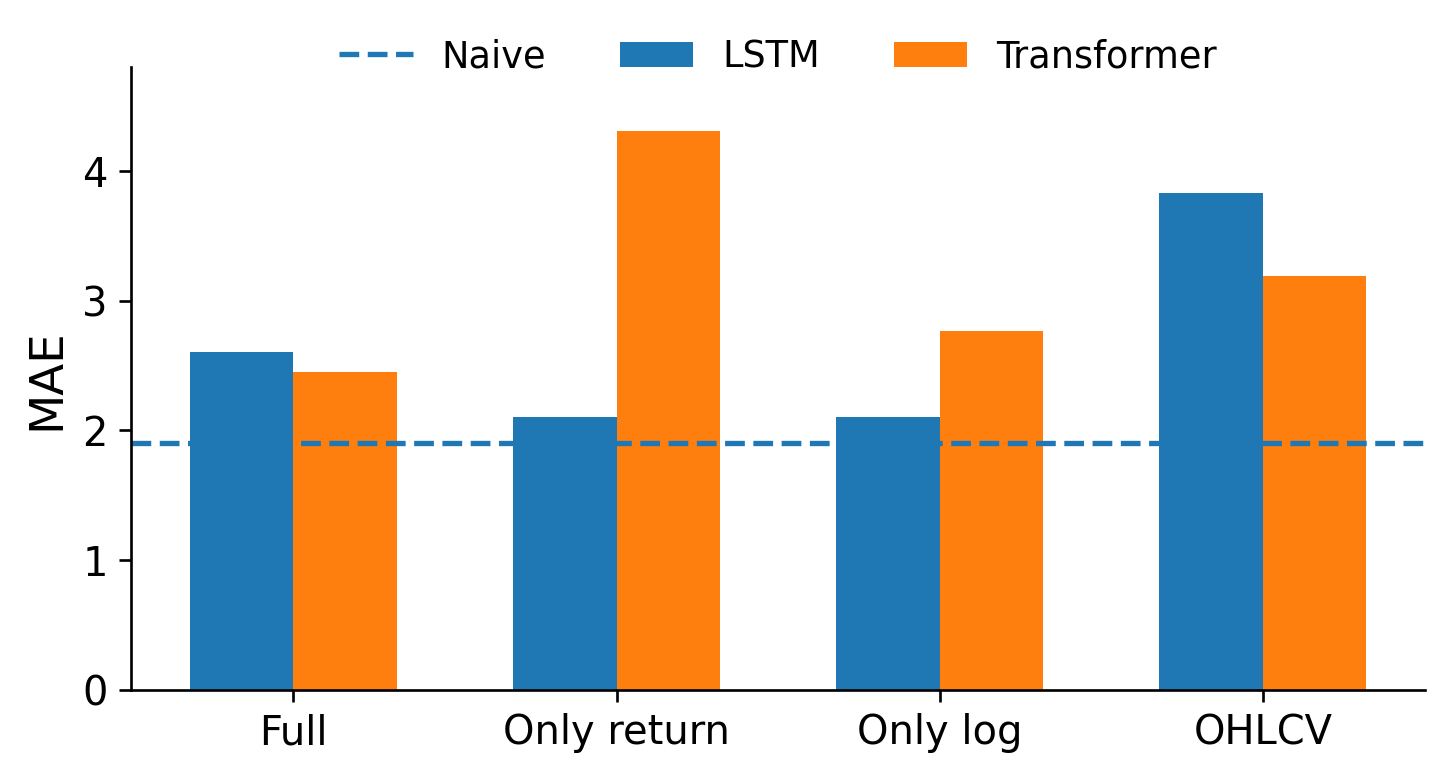
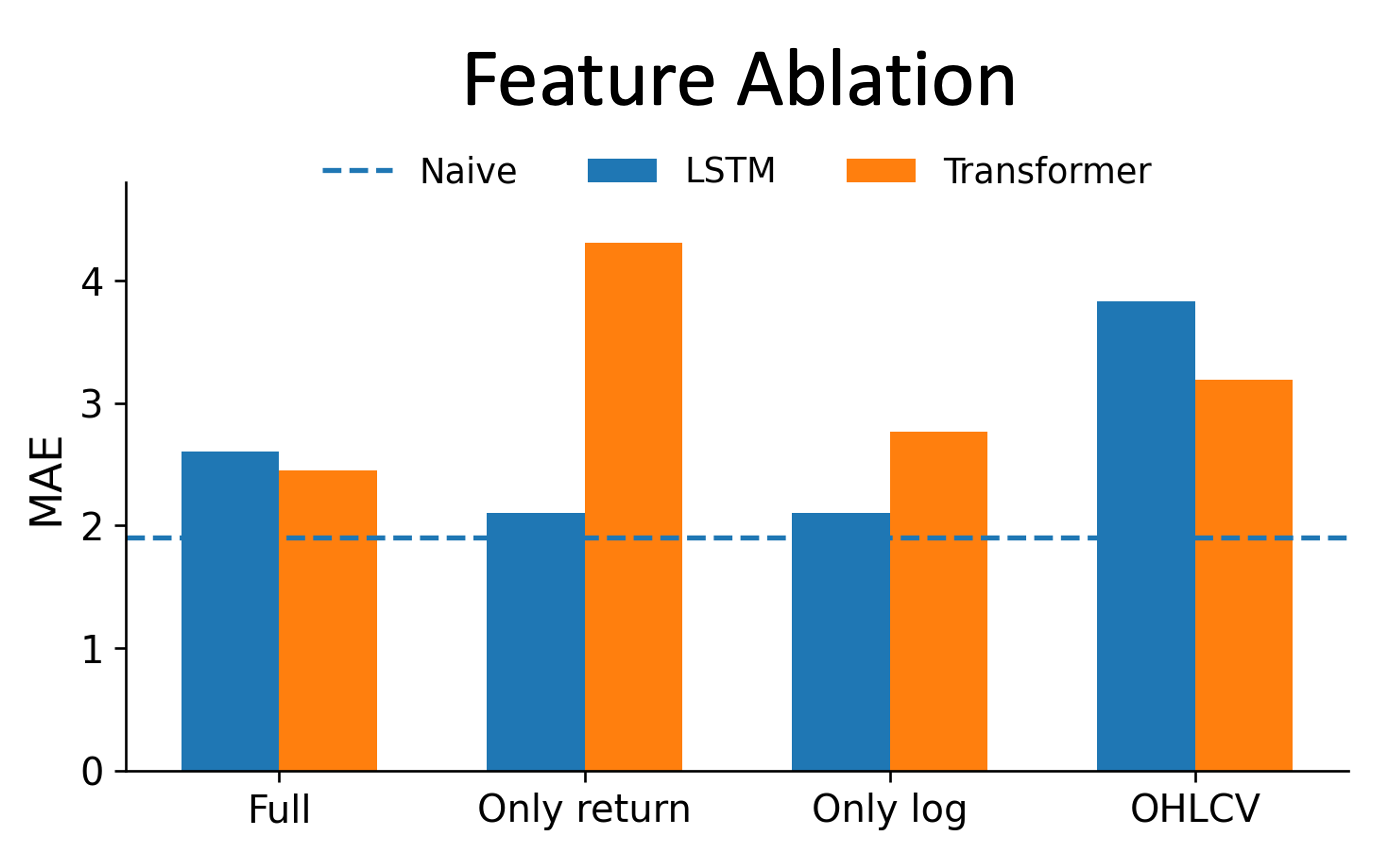
update readme

diff --git a/README.md b/README.md
@@ -3,7 +3,7 @@
 ### Overview
 This project implements a time-series forecasting framework for stock price prediction using LSTM and Transformer, and benchmarks against traditional statistical baselines (Naive baseline, Moving average baseline, and Linear regression baseline). 
 
-The current implementation (v1.0) serves as a foundational time-series ML engineering practices covering data preprocessing, dataset construction, model training, and evaluation. Some necessary follow-up steps still need to be added (See [Roadmap & Future work](#roadmap--future-work)). 
+The current implementation serves as a foundational time-series ML engineering practices covering data preprocessing, dataset construction, model training, and evaluation. Error analysis and abalation experiments are studied as well to understand about the model.
 
 <!-- This project is currently a forecasting benchmark, not a production trading system. Forecasting accuracy does not directly imply trading profitability.  -->
 
@@ -83,18 +83,50 @@ Final evaluation is reported in the original price space.
 **Note**: The strong performance of naive baseline is due to the high short-term continuity and strong autocorrelation in absolute stock prices ($Y_t\approx Y_{t-1}$). Replacing the prediction target to returns will reduce this persistence effect and provide a more informative setting. 
 
 
-Prediction curve:
-![Prediction Plot](outputs/20260315_180055/figures/AAPL_predictions.png)
+Prediction curve, where the dashed lines correspond to top-5 error timepoints of LSTM predictions:
+![Prediction Plot](outputs/20260315_180055/figures/AAPL_predictions_with_LSTM_topk.png)
 
 Training and validation loss:
 ![Training and validation loss](outputs/20260315_180055/figures/AAPL_lstm_transformer_loss.png)
 
 
-Output results are saved under:
+---
 
-```bash
-outputs/<timestamp>/
-```
+### Error analysis & Ablation study
+Error analysis of (1) residual histogram and (2) top-K error interval have been down. The high prediction errors are related to the high-volatility. 
+<!-- 1. Residual histogram
+2. top-K error interval
+3. High/low volatility  -->
+<table>
+  <tr>
+    <td><img src="evaluation/feature_ablation_compact.png" width="100%"></td>
+    <td><img src="evaluation/seq_length_ablation_compact.png" width="100%"></td>
+  </tr>
+</table>
+
+- Return-style features are more informative than raw OHLCV alone.
+LSTM performs best with cleaner inputs (one of return or log return);
+- Transformer is more sensitive to input feature choice. 
+- Longer context is not always better: LSTM prefers 20 days, Transformer around 60.
+- Even the best learned model does not beat the naïve last-close baseline. 
+
+
+---
+
+### Roadmap & Future work
+- For the target of `Return`/`Log Return`/`Direction`, input featrures and practical strategies need to be supplemented, otherwise it is hard for the deep model to learn effective information.
+- Implement binary classification of price directions as a startpoint and a simpler alternative to continuous forecasting.
+<!-- - **Ablation** studies on feature sets and lookback windows. 
+    - Features OHLCV only vs OHLCV + return/log_return
+    - Evaluate the impact of lookback window (`seq_length=20/60/120`)
+    - Evaluate the impact of hidden layer dimension in LSTM (`hidden_size=32/64/128`), in Transformer (`d_model=32/64`, `dim_feedforward=128/256/2048`);  -->
+<!-- - Error analysis: Perform residual-based error analysis across different volatility regimes. -->
+
+- Implement backtesting to assess whether predictive signals translate into trading performance.
+- Add walk-forward evaluation instead of a single fixed chronological split.
+
+
+---
 
 ### Repo structure
 ```
@@ -131,33 +163,16 @@ How to run
 python main.py
 ```
 
----
+Output results are saved under:
 
-### Roadmap & Future work
-- **Target:** Modify the forecasting target from `Close` to `Return`/`Log Return` to avoid the effect of increasing price trend (on forward-adjusted prices) 
-- Implement binary classification models (predicting price direction) as an alternative to continuous forecasting 
-- **Ablation** studies on feature sets and lookback windows. 
-    - Features OHLCV only vs OHLCV + return/log_return
-    - Evaluate the impact of lookback window (`seq_length=20/60/120`)
-    - Evaluate the impact of hidden layer dimension in LSTM (`hidden_size=32/64/128`), in Transformer (`d_model=32/64`, `dim_feedforward=128/256/2048`); 
-- Error analysis: Perform residual-based error analysis across different volatility regimes.
-
-- Implement simple backtesting to assess whether predictive signals translate into trading performance.
-- Add walk-forward evaluation instead of a single fixed chronological split.
+```bash
+outputs/<timestamp>/
+```
 
 
 <!-- ### Ackownledgement 
 This project is based on reproduction of ..., with modifications in experiment organization, logging and evaluation. -->
 
----
-
-<!-- 
-#### Ablation study
 
 
----
 
-#### Error analysis -->
-<!-- 1. Residual histogram
-2. top-K error interval
-3. High/low volatility  -->
